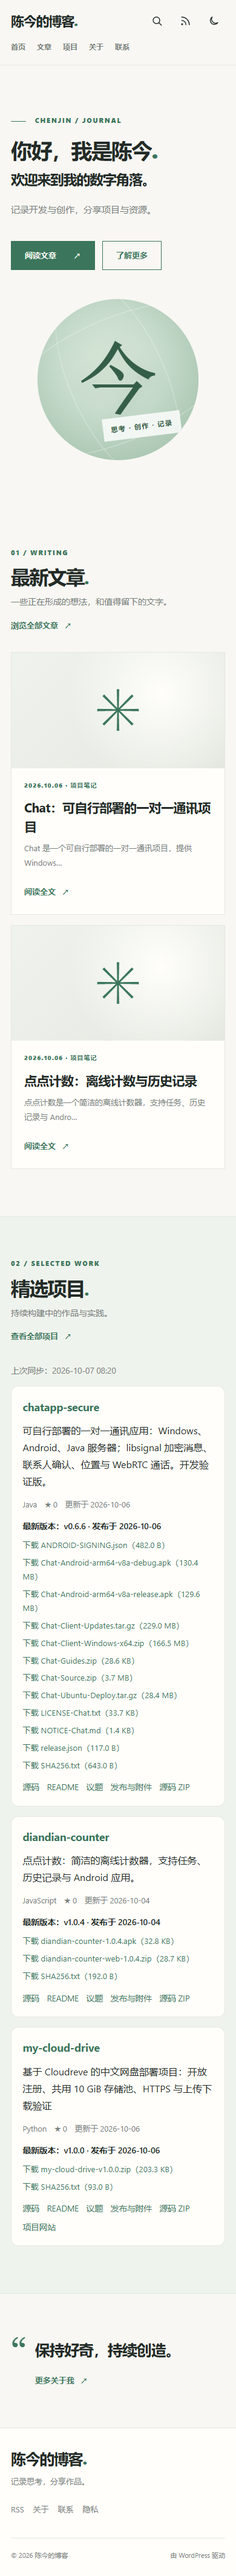
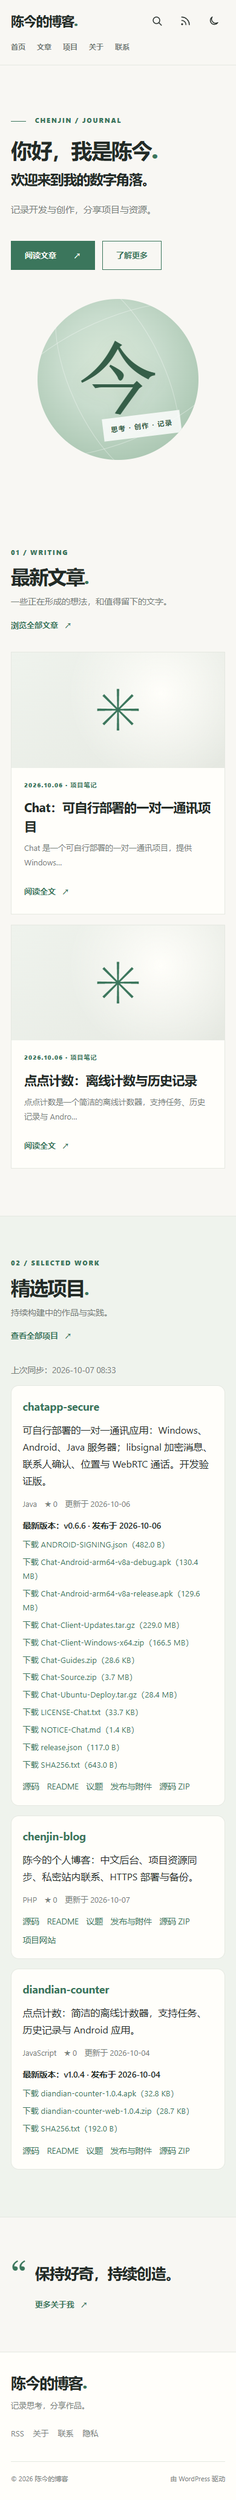
Refresh Chenjin project screenshots and finalize contact-only configuration

diff --git a/docs/DEPLOYMENT.md b/docs/DEPLOYMENT.md
@@ -26,14 +26,13 @@ PHP 使用按需启动进程池，最多三个子进程，每个内存上限 128
 
 ```bash
 sudo BLOG_URL=https://example.com/blog \
-  BLOG_ADMIN_EMAIL=your-admin@example.com \
   BLOG_NGINX_SITE=/etc/nginx/sites-available/example.conf \
   bash deploy/install.sh
 ```
 
 目标虚拟主机内应恰好有一行四空格缩进的 `listen 443 ssl;`。不满足时脚本停止，请先人工检查并在对应 HTTPS server 中加入 `include /etc/nginx/snippets/chenjin-blog.conf;`。不要向不属于此博客的 server 块添加路由。
 
-管理员邮箱应设为自己的真实邮箱；示例地址仅作占位，省略时脚本使用不投递邮件的 `admin@example.invalid`。邮箱地址和邮件服务密码不需要写进源码。对于已有的非本项目 WordPress 目录或已有的同名数据表，安装脚本会拒绝自动接管。
+本站使用不投递邮件的占位邮箱 `admin@example.invalid`，不填写个人邮箱；联系通过站内留言。对于已有的非本项目 WordPress 目录或已有的同名数据表，安装脚本会拒绝自动接管。
 
 ## 日常检查
 

diff --git a/README.md b/README.md
@@ -16,6 +16,7 @@
 - 阅读：响应式布局、深浅主题、文章目录、代码复制、上一篇/下一篇、评论与回复。评论需要站长审核。
 - 项目：自动同步 `wobuyaoquminga` 全部公开仓库；搜索、语言筛选、排序、源码、README、Issues、版本发布与源码 ZIP。私有仓库不公开。
 - 管理：中文后台、菜单、Logo、媒体库、用户角色、导入/导出；站点与正文可以在后台修改。
+- 联系：无需邮箱的站内留言，只在站长后台保存与查看。
 - SEO：Slim SEO 自动生成元信息、社交分享标签与 sitemap。无需配置付费服务。
 - 运维：独立 PHP-FPM 进程池、真实系统 Cron、登录重试限制、HTTPS、配置与数据库隔离、每天备份、保留约两周、日志轮转。
 

diff --git a/docs/USER-GUIDE.md b/docs/USER-GUIDE.md
@@ -36,7 +36,7 @@
 
 WordPress 安全与小版本更新自动安装；核心大版本、定制主题与插件需要备份后检查。第三方 SEO 和登录限制插件开启自动更新。升级前可运行服务器备份脚本。不要删除「陈今的 GitHub 项目」插件，否则项目短码会失效。
 
-未配置 SMTP，因此找回密码和评论邮件通知暂不保证送达。如需配置，请在后台使用自己的邮件服务；不要将邮件密码加入 GitHub。管理员也可通过服务器 WP-CLI 重置密码。
+本站不使用个人邮箱、邮件通知或邮箱找回密码。管理员如需重置密码，请通过服务器 WP-CLI 操作，并将新密码保存在自己的密码管理器中。
 
 ## 站内联系
 
